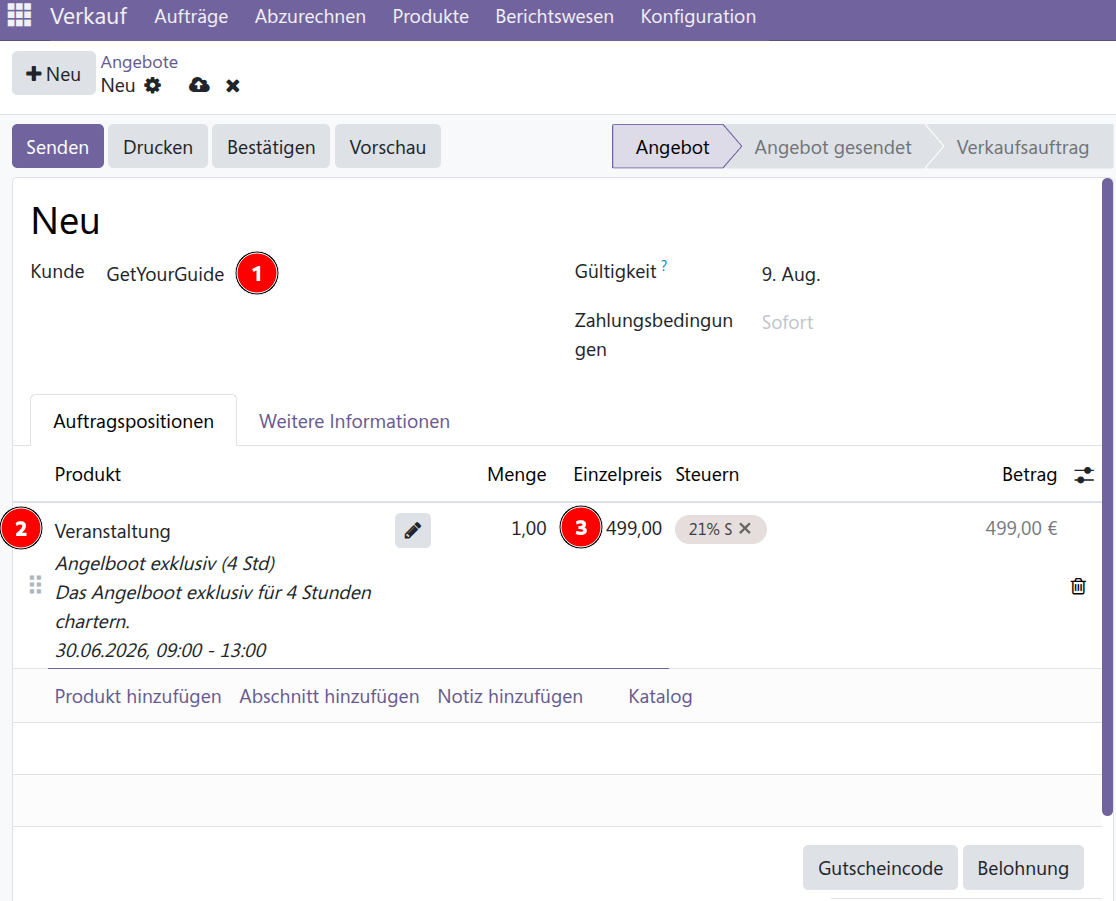
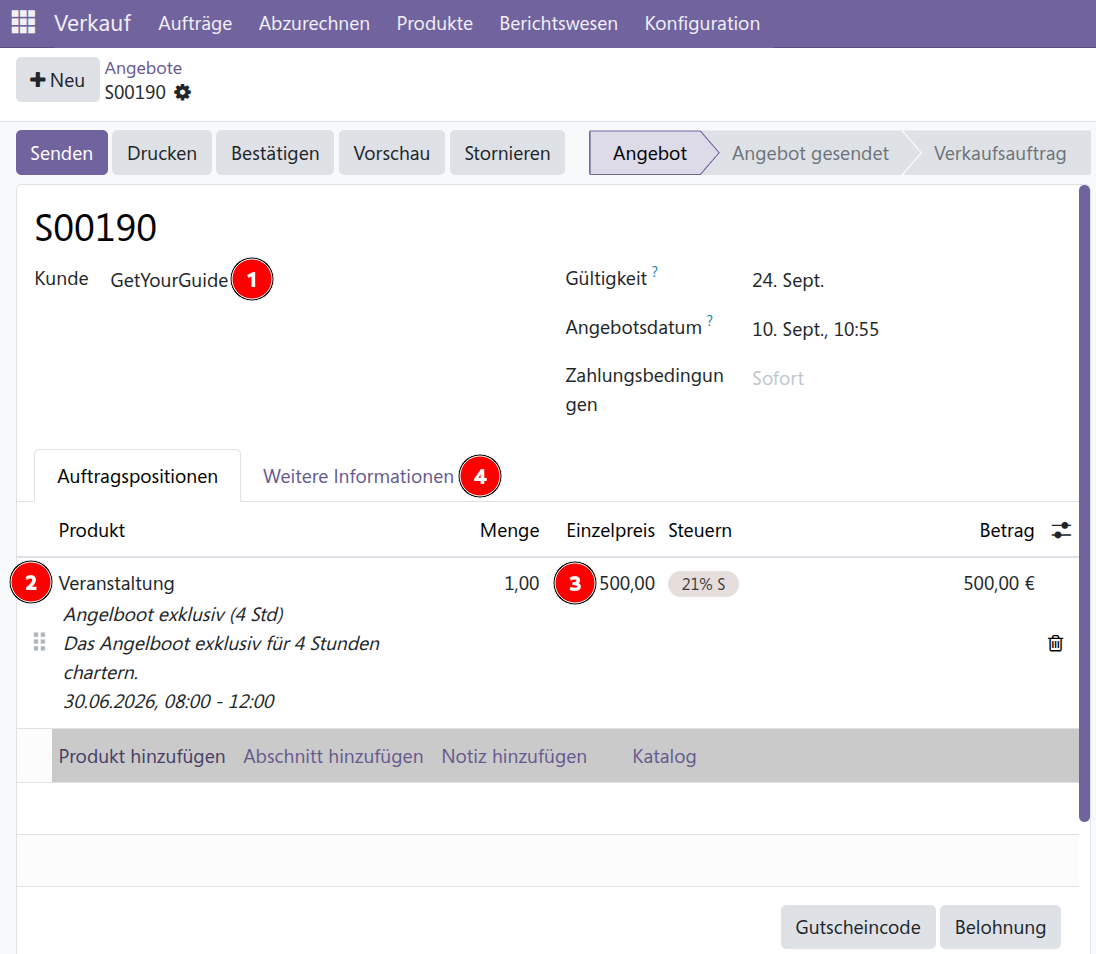
hilfe

diff --git a/mkdocs/docs/buchung.md b/mkdocs/docs/buchung.md
@@ -1,38 +1,38 @@
 # Buchungen
 
-## Plattformen: Kunde zahlt komplett und nur an Plattform
+
+## Plattformen: Teilnehmer zahlt komplett und nur an Plattform
 #### Beispiele
 - GetYourGuide
 - Segelreisen Hering
 - Click&Boat
 - SamBoat
 
-Unsere Rechnung geht an die Plattform als Kunde - **nicht** an Teilnehmer. Die Teilnehmer bekommen von uns nur Tickets.
+Unsere Rechnung geht an die Plattform als Kunde - **nicht** an Teilnehmer.<br>
+Teilnehmer bekommen von uns nur Tickets.
 
 #### Auslöser
 Email mit Buchungsdaten kommt.
 
 ### Vorgehen
-+ In Odoo als Benutzer anmelden, <a href="https://www.real-yachting-alicante.com/odoo/sales"
-   target="_blank"
-   rel="noopener noreferrer">Menü Verkauf</a>
-+ Auf **\[+Neu]** klicken um einen Verkaufsauftrag zu erstellen:
++ In Odoo als Benutzer anmelden, <a href="https://www.real-yachting-alicante.com/odoo/sales" target="_blank">Menü Verkauf</a>
++ Auf **\[+Neu]** klicken um ein Angebot zu erstellen:
 
 ![angebot1](images/angebot1.png)
 
-1. **Kunde** ist immer GetYourGuide bzw. die Platform
-2. Veranstaltung, Zeitfenster und Anzahl Tickets auswählen
+1. **Kunde** ist immer die Platform, z.B. GetYourGuide. Diese sollte bereits in Odoo existieren.
+2. ***Produkt hinzufügen*** klicken, Veranstaltung auswahlen, Zeitfenster und Anzahl Tickets auswählen
 3. ggf. Preis überschreiben
 4. auf Tab "Weitere Informationen" erfassen:
     
 ![angebot2](images/angebot2.png)
 
-1. Kundenreferenz: GYG????????? - die Auftragsnummer der Platform
-2. Quelle: "GetYourGuide" bzw. die Platform auswählen
+1. Kundenreferenz: GYG????????? - die Auftragsnummer der Platform. Das ist wichtig damit später danan gesucht werden kann.
+2. Quelle: Die Platform auswählen, z.B. "GetYourGuide. Diese sollte bereits in Odoo existieren.
 
-Verkaufsauftrag **\[Bestätigen]** klicken
+Das Angebot braucht nicht per Email versendet zu werden, es wurde ja bereits schon gebucht. Deshalb 
+am Angebot **\[Bestätigen]** klicken, das Popup "Veranstlatunsgregistrierungen erscheint:
 
-im Popup
 ![angebot3](images/angebot3.png)
 
 - **Teilnehmer**-Namen, -E-Mail und -Telefon eintragen
@@ -40,11 +40,11 @@ im Popup
   
 !!! warning "Teilnehmer erhält automatisch Tickets (Achtung: Email ist in der Sprache des aktuell angemeldeten Benutzers! - solange der Kunde (die Platform) keine Sprache voreingestellt hat). Das Zeitfenster der Veranstaltung ist damit belegt und kann nicht mehr von anderen gebucht werden."
 
-Verkaufsauftrag **\[Rechnung erstellen]** klicken, "reguläre Rechnung" auswählen, ggf. Fälligkeitsdatum anpassen, **\[Bestätigen]** klicken
+Am Angebot **\[Rechnung erstellen]** klicken, "reguläre Rechnung" auswählen, ggf. Fälligkeitsdatum anpassen, **\[Bestätigen]** klicken
 
 Bei Zahlungseingang von der Platform die Rechnung mit **\[Zahlen]** als bezahlt markieren
 
-## Plattformen: Kunde zahlt nur Provision an Plattform und an uns den Rest
+## Plattformen: Teilnehmer zahlt nur Provision an Plattform und an uns den Rest
 #### Beispiele
 - FishingBooker
 
@@ -74,7 +74,7 @@ Damit ist die Auftragserfassung abgeschlossen, jetzt in Odoo als regulärer Benu
    target="_blank"
    rel="noopener noreferrer">Menü Verkauf</a>
 
-Die eben erfasste Buching sollte der oberste Verkaufsauftrag sein, diesen aufrufen. (Optional: Durch Klick auf den  Kundennamen die Kundendetails aufrufen und die Sprache überprüfen, es sollte die oben ausgewählte sein)
+Die eben erfasste Buching sollte das oberste Angebot sein, dieses aufrufen. (Optional: Durch Klick auf den  Kundennamen die Kundendetails aufrufen und die Sprache überprüfen, es sollte die oben ausgewählte sein)
 
 ![angebot11](images/angebot11.png)
 
@@ -83,9 +83,11 @@ Die eben erfasste Buching sollte der oberste Verkaufsauftrag sein, diesen aufruf
 
 **\[Senden]** klicken, ggf. Email Text im Popup modifizieren und **\[Senden]** klicken, dann wird das Angebot per Email verschickt.
 
+Der Kunde erhält folgende Email:
+
 ![angebot13](images/angebot13-email.png)
-In der Email hat der Kunde einen Button **\[Angebot akzeptieren & bezahlen]** womit er immer und ohne spezielle Anmeldung auf folgende Bezahlseite kommt:
+In der Email hat der Kunde einen Button **\[Angebot akzeptieren & bezahlen]** womit er jederzeit und ohne spezielle Anmeldung auf folgende Bezahlseite kommt:
 ![angebot13-payment](images/angebot13-payment.png)
 
 
-!!!warning "Erst bei Bezahlung wird der Platz für die Veranstaltung reserviert und das Ticket sowie Rechnungen verschickt, das passiert alles automatisch und in der oben ausgewählten Sprache des Kunden."
+!!!warning "Erst bei Bezahlung wird der Platz für die Veranstaltung reserviert und das Ticket sowie Rechnungen verschickt. Das passiert alles automatisch und in der oben ausgewählten Sprache des Kunden."

diff --git a/mkdocs/docs/index.md b/mkdocs/docs/index.md
@@ -1,3 +1,20 @@
-Willkommen im Benutzerhandbuch !
+**Willkommen im Benutzerhandbuch !**
+## Allgemeines zu Odoo
+### Beriffsdefinition
+**Quelle** ist die Internet-Plattform, Marketingpartner, Flyer, Anzeige o.ä. wie der Teilnehmer auf uns aufmerksam geworden ist bzw. gebucht hat.<br>
+**Teilnehmer** ist immer die Person die an einer Veranstaltung teilnimmt.<br>
+**Kunde** kann der Teilnehmer selbst sein oder die Plattform über die gebucht wurde.<br>
+**Ticket** ist eine "Eintrittskarte" die detaillierte Anweisungen zu Veranstaltungsort und -zeit sowie eine Wegbeschreibung  enthält.<br>
+**Angebot** ist eine Preisauskunft nach der ein Kunde bestellen soll. Es kann ein für eine Standard-Veranstaltung sein oder individuell zusammengestellt.
+**Verkaufsauftrag** ist ein bestätigtes, also durch den Kunden angenommenes Angebot.
 
-!!! info "Bei Buchungen und Stornos in Odoo wird die Verfügbarkeit automatisch gepflegt. Die Verfügabrkeit von Veranstaltungen auf anderen Plattformem muss ggf. dort manuell geändert werden. Das sind: GYG, andere ?"
+### Ticketverfügbarkeit
+Bei Buchungen und Stornos in Odoo wird die Verfügbarkeit automatisch durch das Systen in Echtzeit aktualisiertt.
+
+Tickets sind nicht mehr für andere verfügbar wenn ein **Angebot bestägt** wurde (=Verkaufsauftrag).<br>
+Das sind alle Tickets für die manuell ein Angebot angelegt und **bestätigt** wurde.
+Angebot können entweder automatisch durch Bezahlung (über Stripe) oder manuell durch Klicken von **\[Bestätigen]** bestätigt werden.<br>
+Normalerweise werden alle Buchungen über Plattformen die wir per Email bekommen direkt manuell bestätigt. Bei Self-Service Buchungen wird das Angebot in dem Moment automatisch bestätigt in dem über Stripe bezahlt wurde.
+Wenn wir nur ein Angebot erstellt haben und dies per Email verschickt haben sollte durch Annahme und Bezahlung automatisch bestätigt werden . Altenativ kann es manuell bestätigt werden durch Email, Anruf, etc.
+
+Die Verfügabrkeit von Veranstaltungen auf anderen Plattformem muss ggf. dort manuell geändert werden. Das sind: GYG, (wo muss noch gepflegt werden ?)
